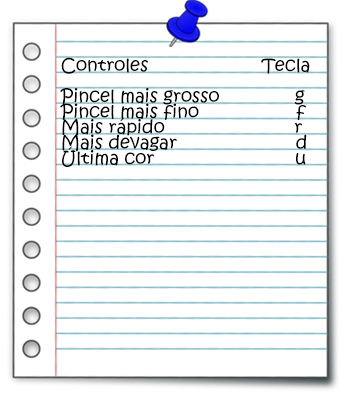
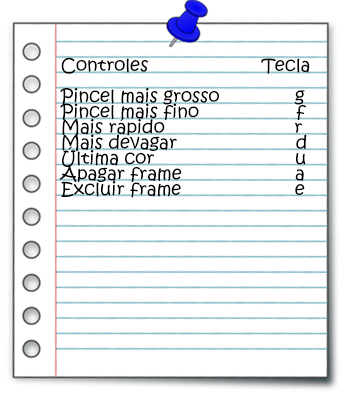
Delete and erase frame functionalities

Changed region(s): [[0.1744, 0.42, 0.5233, 0.51], [0.843, 0.42, 0.9012, 0.48]]

diff --git a/src/canvas.py b/src/canvas.py
@@ -129,7 +129,7 @@ def main():
     brush_min_size = 1
     brush_max_size = 10
     brush_color = (0, 0, 0)
-    brush = core.Brush(brush_min_size, brush_color)
+    brush = core.Brush(2, brush_color)
 
     def add_new_frame():
         """Create new frame"""
@@ -208,6 +208,12 @@ def main():
                         color_history.append(color_history.pop(-2))
                         new_color = palette.get_color_dict()[color_history[-1]]
                         brush.set_color(new_color)
+                elif event.key == K_a:
+                    frame.clean()
+                elif event.key == K_e:
+                    if animation.get_frame_count() > 1:
+                        frame_idx = animation.get_current_frame_index()
+                        animation.remove_frame_at(frame_idx)
             elif event.type == MOUSEBUTTONDOWN:
                 if helping:
                     helping = False
@@ -234,8 +240,8 @@ def main():
                         animation.prev_frame()
                     elif palette.rect.collidepoint(pos):
                         palette.next_color()
-                        current_color = palette.get_current_color()
-                        brush.set_color(current_color)
+                        brush_color = palette.get_current_color()
+                        brush.set_color(brush_color)
                     elif help_btn.rect.collidepoint(pos):
                         helping = True
                         help_screen.reset_animation()

diff --git a/src/core/animation.py b/src/core/animation.py
@@ -9,7 +9,7 @@ class Animation:
     def get_fps(self):
         """Get frames per second"""
         return self.fps
-    
+
     def set_fps(self, fps):
         """Set frames per second"""
         self.fps = fps
@@ -21,7 +21,7 @@ class Animation:
     def get_frame_count(self):
         """Gets number of frames"""
         return len(self.frames)
-    
+
     def prev_frame(self):
         """Set the current frame to the previous frame"""
         self.set_current_frame((self.current_frame - 1) % self.get_frame_count())
@@ -34,9 +34,9 @@ class Animation:
         """Get current frame"""
         return self.get_frame_at(self.current_frame)
 
-    def set_current_frame(self, f):
+    def set_current_frame(self, frame):
         """Set current frame"""
-        self.current_frame = f
+        self.current_frame = frame
 
     def get_current_frame_index(self):
         """Get current frame index"""
@@ -47,8 +47,12 @@ class Animation:
         return self.frames[i]
 
     def remove_frame_at(self, i):
-        """Remove frame at index"""
-        return self.frames.pop(i)
+        """Remove frame at index
+        Assumes there are at least two frames
+        """
+        self.frames.pop(i)
+        if self.current_frame == i:
+            self.set_current_frame(max(0, i-1))
 
     def update(self):
         """Updates animation"""

diff --git a/src/core/frame.py b/src/core/frame.py
@@ -7,11 +7,15 @@ class Frame:
     def __init__(self, width, height, bgcolor):
         self.bgcolor = bgcolor
         self.img = np.zeros((width, height, 3), np.int8)
-        self.img[:,:] = bgcolor
+        self.clean()
 
     def get_image(self):
         """Get frame image"""
         return self.img
+
+    def clean(self):
+        """Clean frame"""
+        self.img[:,:] = self.bgcolor
 
     def draw(self, canvas):
         """Draw on canvas"""
